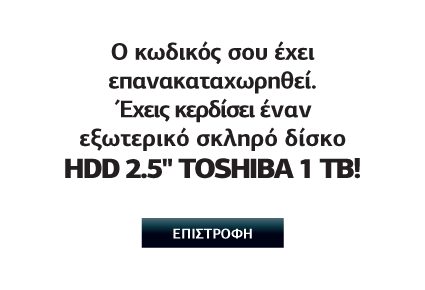
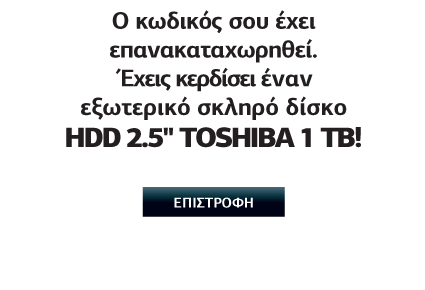
corrected images, form imporvements

Changed region(s): [[0.1529, 0.031, 0.8565, 0.869]]

diff --git a/template-page.html b/template-page.html
@@ -1,5 +1,5 @@
 <html class="no-js" lang="en">
-<!-- Horas non numero nisi serenas -->
+<!-- -->
 <head>
 <meta charset="utf-8" />
 <meta name="viewport" content="width=device-width, initial-scale=1.0" />
@@ -300,7 +300,7 @@
       <!-- ------- -->
       
       <div id="codeusedcontainer" class="contentItem" tabindex=-1> <img src="img/bar.jpg"/>
-        <div id='codeuseddidwin'> <span onClick="uiSetScreen('compcodeinputcontainer');" id='codeuseddidwinkey'></span> 
+        <div id='codeuseddidwin'> <span onClick="uiSetScreen('compcodeinputcontainer');" id='codeuseddidwinkey'><!--<img src="img/responses/b1.png" width="425" height="290">--></span> 
         
         <button id='formnotsavedbutton' class="submitBtn formLink" onClick="uiSetScreen('userformcontainer');">ΥΠΟΒΟΛΗ ΣΤΟΙΧΕΙΩΝ</button>
         
@@ -325,7 +325,7 @@
                   <label for="right-label1" class="formLabel">* Όνομα</label>
                 </div>
                 <div class="small-6 columns">
-                  <input name="u_name" class="formInput" type="text" id="right-label1"  required>
+                  <input name="u_name" class="formInput" type="text" id="right-label1" onFocus="if(this.value == 'Συμπληρώστε το όνομά σας') { this.value = ''; }"  required>
                 </div>
               </div>
               <div class="row">
@@ -333,7 +333,7 @@
                   <label for="right-label2" class="formLabel">* Επίθετο</label>
                 </div>
                 <div class="small-6 columns">
-                  <input name="u_surname" class="formInput" type="text" id="right-label2"  required>
+                  <input name="u_surname" class="formInput" type="text" id="right-label2" onFocus="if(this.value == 'Συμπληρώστε το επίθετό σας') { this.value = ''; }"required>
                 </div>
               </div>
               <div class="row">
@@ -341,7 +341,7 @@
                   <label for="right-label3"  class="formLabel">* Κινητό τηλέφωνο </label>
                 </div>
                 <div class="small-6 columns">
-                  <input name="u_mobile" class="formInput" type="text" pattern="[0-9]{10}" id="right-label3"  required>
+                  <input name="u_mobile" class="formInput" type="text" pattern="[0-9]{10}" id="right-label3"  required onFocus="if(this.value == 'Συμπληρώστε το κινητό σας') { this.value = ''; }">
                 </div>
               </div>
               <div class="row">
@@ -357,7 +357,7 @@
                   <label for="right-label5" class="formLabel">* Διεύθυνση</label>
                 </div>
                 <div class="small-6 columns">
-                  <input  name="u_address" class="formInput" type="text" id="right-label5"  required>
+                  <input  name="u_address" class="formInput" type="text" id="right-label5"  required onFocus="if(this.value == 'Συμπληρώστε τη διεύθυνσή σας') { this.value = ''; }">
                 </div>
               </div>
               <div class="row">
@@ -365,7 +365,7 @@
                   <label for="right-label6" class="formLabel">* Περιοχή / Πόλη</label>
                 </div>
                 <div class="small-6 columns">
-                  <input  name="u_area" class="formInput" type="text" id="right-label6" required>
+                  <input  name="u_area" class="formInput" type="text" id="right-label6" required onFocus="if(this.value == 'Συμπληρώστε την περιοχή σας') { this.value = ''; }">
                 </div>
               </div>
               <div class="row">
@@ -373,7 +373,7 @@
                   <label for="right-label7" class="formLabel">* Τ.Κ.</label>
                 </div>
                 <div class="small-6 columns">
-                  <input  name="u_po" class="formInput" type="text" pattern="[0-9]{5}" id="right-label7" required>
+                  <input  name="u_po" class="formInput" type="text" pattern="[0-9]{5}" id="right-label7" required onFocus="if(this.value == 'Συμπληρώστε τον Τ.Κ. σας') { this.value = ''; }">
                 </div>
               </div>
               <div class="row">
@@ -381,7 +381,7 @@
                   <label for="right-label8" class="formLabel">* Ε-mail</label>
                 </div>
                 <div class="small-6 columns">
-                  <input  name="u_email" class="formInput" type="email" id="right-label8"  required>
+                  <input  name="u_email" class="formInput" type="email" id="right-label8"  required onFocus="if(this.value == 'Συμπληρώστε τo email σας') { this.value = ''; }">
                 </div>
               </div>
               <div class="row opts">

diff --git a/stylesheets/custom.css b/stylesheets/custom.css
@@ -288,9 +288,9 @@ position:absolute;
 	padding-left:2px;
 }
 .formLink{
- bottom: 10px;
+ bottom: 30px;
     font-size: 12px;
-    height: 20px;
+    
     left: 142px;
     line-height: 12px;
     position: absolute;
